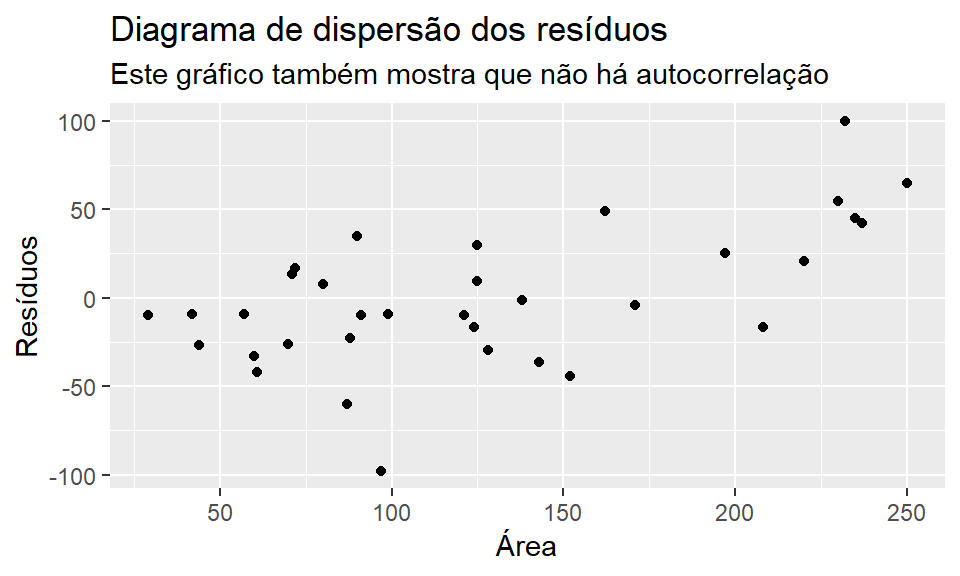
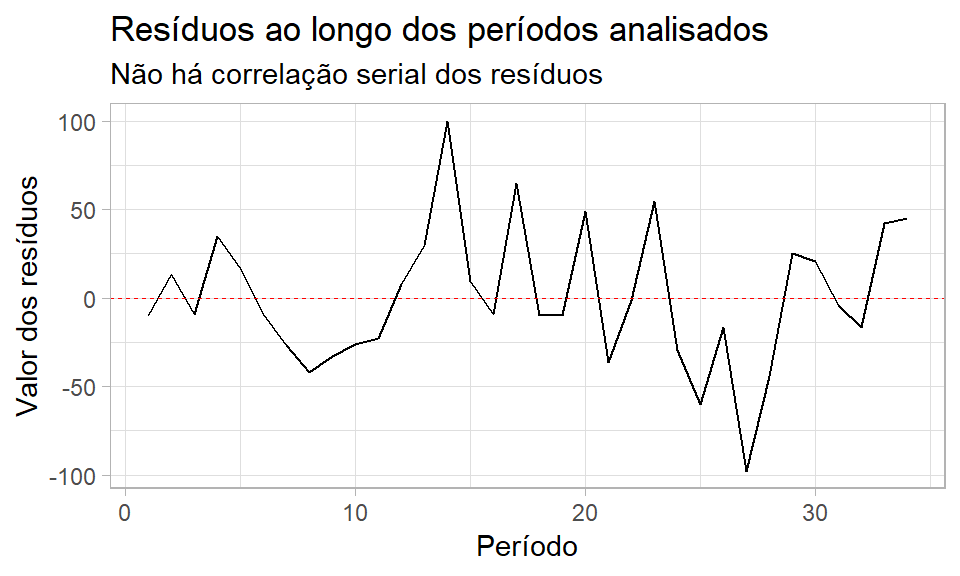
novo post

diff --git a/econometria.html b/econometria.html
@@ -339,7 +339,10 @@ $(document).ready(function () {
 <pre class="r"><code>library(tidyverse)
 library(lmtest)
 library(corrplot)
-library(readxl)</code></pre>
+library(readxl)
+library(gridExtra)
+
+theme_set(theme_light())</code></pre>
 <p>Objetivos: desenvolver gráficos para analisar autocorrelação de resíduos, aplicar o teste Durbin Watson, aplicar o teste Godfrey e aplicar o teste Q (a.k.a Ljung–Box test).</p>
 <div id="primeira-parte" class="section level4">
 <h4><strong>Primeira parte</strong></h4>
@@ -361,28 +364,15 @@ library(readxl)</code></pre>
 <p>Gráfico de dispersão (área plantada x preço da cana)</p>
 <pre><code>## `geom_smooth()` using method = &#39;loess&#39; and formula &#39;y ~ x&#39;</code></pre>
 <p><img src="econometria_files/figure-html/unnamed-chunk-4-1.png" width="480" style="display: block; margin: auto;" /></p>
+<pre><code>## `geom_smooth()` using method = &#39;loess&#39; and formula &#39;y ~ x&#39;</code></pre>
+<p><img src="econometria_files/figure-html/unnamed-chunk-5-1.png" width="480" style="display: block; margin: auto;" /></p>
 <ol style="list-style-type: decimal">
 <li>Verifique se há autocorrelação serial dos erros. Comente o diagrama de dispersão e o correlograma.</li>
 </ol>
 <p>R: Primeiro, deve-se criar o modelo de regressão para depois gerar os erros. O modelo é resumido abaixo:</p>
-<pre><code>## 
-## Call:
-## lm(formula = area ~ valor, data = dados_2)
-## 
-## Residuals:
-##     Min      1Q  Median      3Q     Max 
-## -97.901 -25.544  -8.999  24.135  99.908 
-## 
-## Coefficients:
-##             Estimate Std. Error t value Pr(&gt;|t|)    
-## (Intercept)     2.54      17.77   0.143    0.887    
-## valor         479.18      62.95   7.612 1.13e-08 ***
-## ---
-## Signif. codes:  0 &#39;***&#39; 0.001 &#39;**&#39; 0.01 &#39;*&#39; 0.05 &#39;.&#39; 0.1 &#39; &#39; 1
-## 
-## Residual standard error: 39.65 on 32 degrees of freedom
-## Multiple R-squared:  0.6442, Adjusted R-squared:  0.6331 
-## F-statistic: 57.95 on 1 and 32 DF,  p-value: 1.131e-08</code></pre>
+<p><span class="math display">\[ lnY_t = \beta_1+\beta_2 (lnX_t) + U_t \]</span></p>
+<p>R² = 64.4% Adjusted R² = 63.3%</p>
+<p>Equação: <span class="math inline">\(lnY_t = 2.54 + 479.18 (lnX_t) + U_t\)</span></p>
 <p>Abaixo há uma amostra dos resíduos gerados pelo modelo:</p>
 <pre><code>##   periodo area    valor  residual
 ## 1       1   29 0.075258 -9.602554
@@ -392,9 +382,9 @@ library(readxl)</code></pre>
 ## 5       5   72 0.109562 16.959682
 ## 6       6   57 0.132486 -9.025023</code></pre>
 <p>Após gerar os resíduos, pode-se analisar se há autocorrelação. Os gráficos abaixo mostram se há este comportamento.</p>
-<p><img src="econometria_files/figure-html/unnamed-chunk-8-1.png" width="480" style="display: block; margin: auto;" /></p>
 <p><img src="econometria_files/figure-html/unnamed-chunk-9-1.png" width="480" style="display: block; margin: auto;" /></p>
-<p>Dá para ver que não há autocorrelação entre os resíduos. Porém, para garantir, é interessante usar testes estatísticos formais, como o Durbin Watson ou Godfrey.</p>
+<p><img src="econometria_files/figure-html/unnamed-chunk-10-1.png" width="480" style="display: block; margin: auto;" /></p>
+<p>Aparentemente não há autocorrelação entre os resíduos. Porém, para garantir, é interessante usar testes estatísticos formais, como o Durbin Watson ou Godfrey.</p>
 <ol start="2" style="list-style-type: decimal">
 <li>Aplique o teste de Durbin Watson, escrevendo as hipóteses e testando a autocorrelação. Use um nível de significância de 5%.</li>
 </ol>
@@ -409,26 +399,11 @@ library(readxl)</code></pre>
 <p>De acordo com a tabela, sabendo a quantidade de registros (n = 33), a significância (0.05) e o nível de liberdade (degrees of freedom = 1) que é o número de variáveis independentes, pode-se achar os valores <strong>dl</strong> e <strong>du</strong>. Para este exercício tem-se:</p>
 <p><strong>dl</strong> = 1.35</p>
 <p><strong>du</strong> = 1.49</p>
-<p>Sabendo que d = 1.91822 e os critérios do teste, pode-se concluir que a hipótese nula é verdadeira, ou seja, não existe autocorrelação. Isso corrobora os gráficos gerados anteriormente.</p>
+<p>Sabendo que dw = 1.47 e os critérios do teste, chega-se a uma inconclusão. O teste não consegue concluir se há autocorrelação serial dos resíduos com defasagem de um período (t). Na zona de indecisão não se pode nem aceitar ou rejeitar H0.</p>
 <ol start="3" style="list-style-type: decimal">
-<li>Aplique o teste Breusch Godfrey (a.k.a teste LM) escrevendo as hipóteses. Teste a autocorrelação com nível de significância de 5% e escreva a conclusão.</li>
+<li><p>Aplique o teste Breusch Godfrey (a.k.a teste LM) escrevendo as hipóteses. Teste a autocorrelação com nível de significância de 5% e escreva a conclusão.</p></li>
+<li><p>Aplique o teste Q e comente os resultados.</p></li>
 </ol>
-<pre class="r"><code>lmtest::bgtest(lr)</code></pre>
-<pre><code>## 
-##  Breusch-Godfrey test for serial correlation of order up to 1
-## 
-## data:  lr
-## LM test = 2.0872, df = 1, p-value = 0.1485</code></pre>
-<p>O teste godfrey gerou um p valor de 0.1485</p>
-<ol start="4" style="list-style-type: decimal">
-<li>Aplique o teste Q e comente os resultados.</li>
-</ol>
-<pre class="r"><code>Box.test(residual,lag = 1,type = c(&quot;Box-Pierce&quot;, &quot;Ljung-Box&quot;), fitdf = 0)</code></pre>
-<pre><code>## 
-##  Box-Pierce test
-## 
-## data:  residual
-## X-squared = 1.9896, df = 1, p-value = 0.1584</code></pre>
 </div>
 </div>
 
